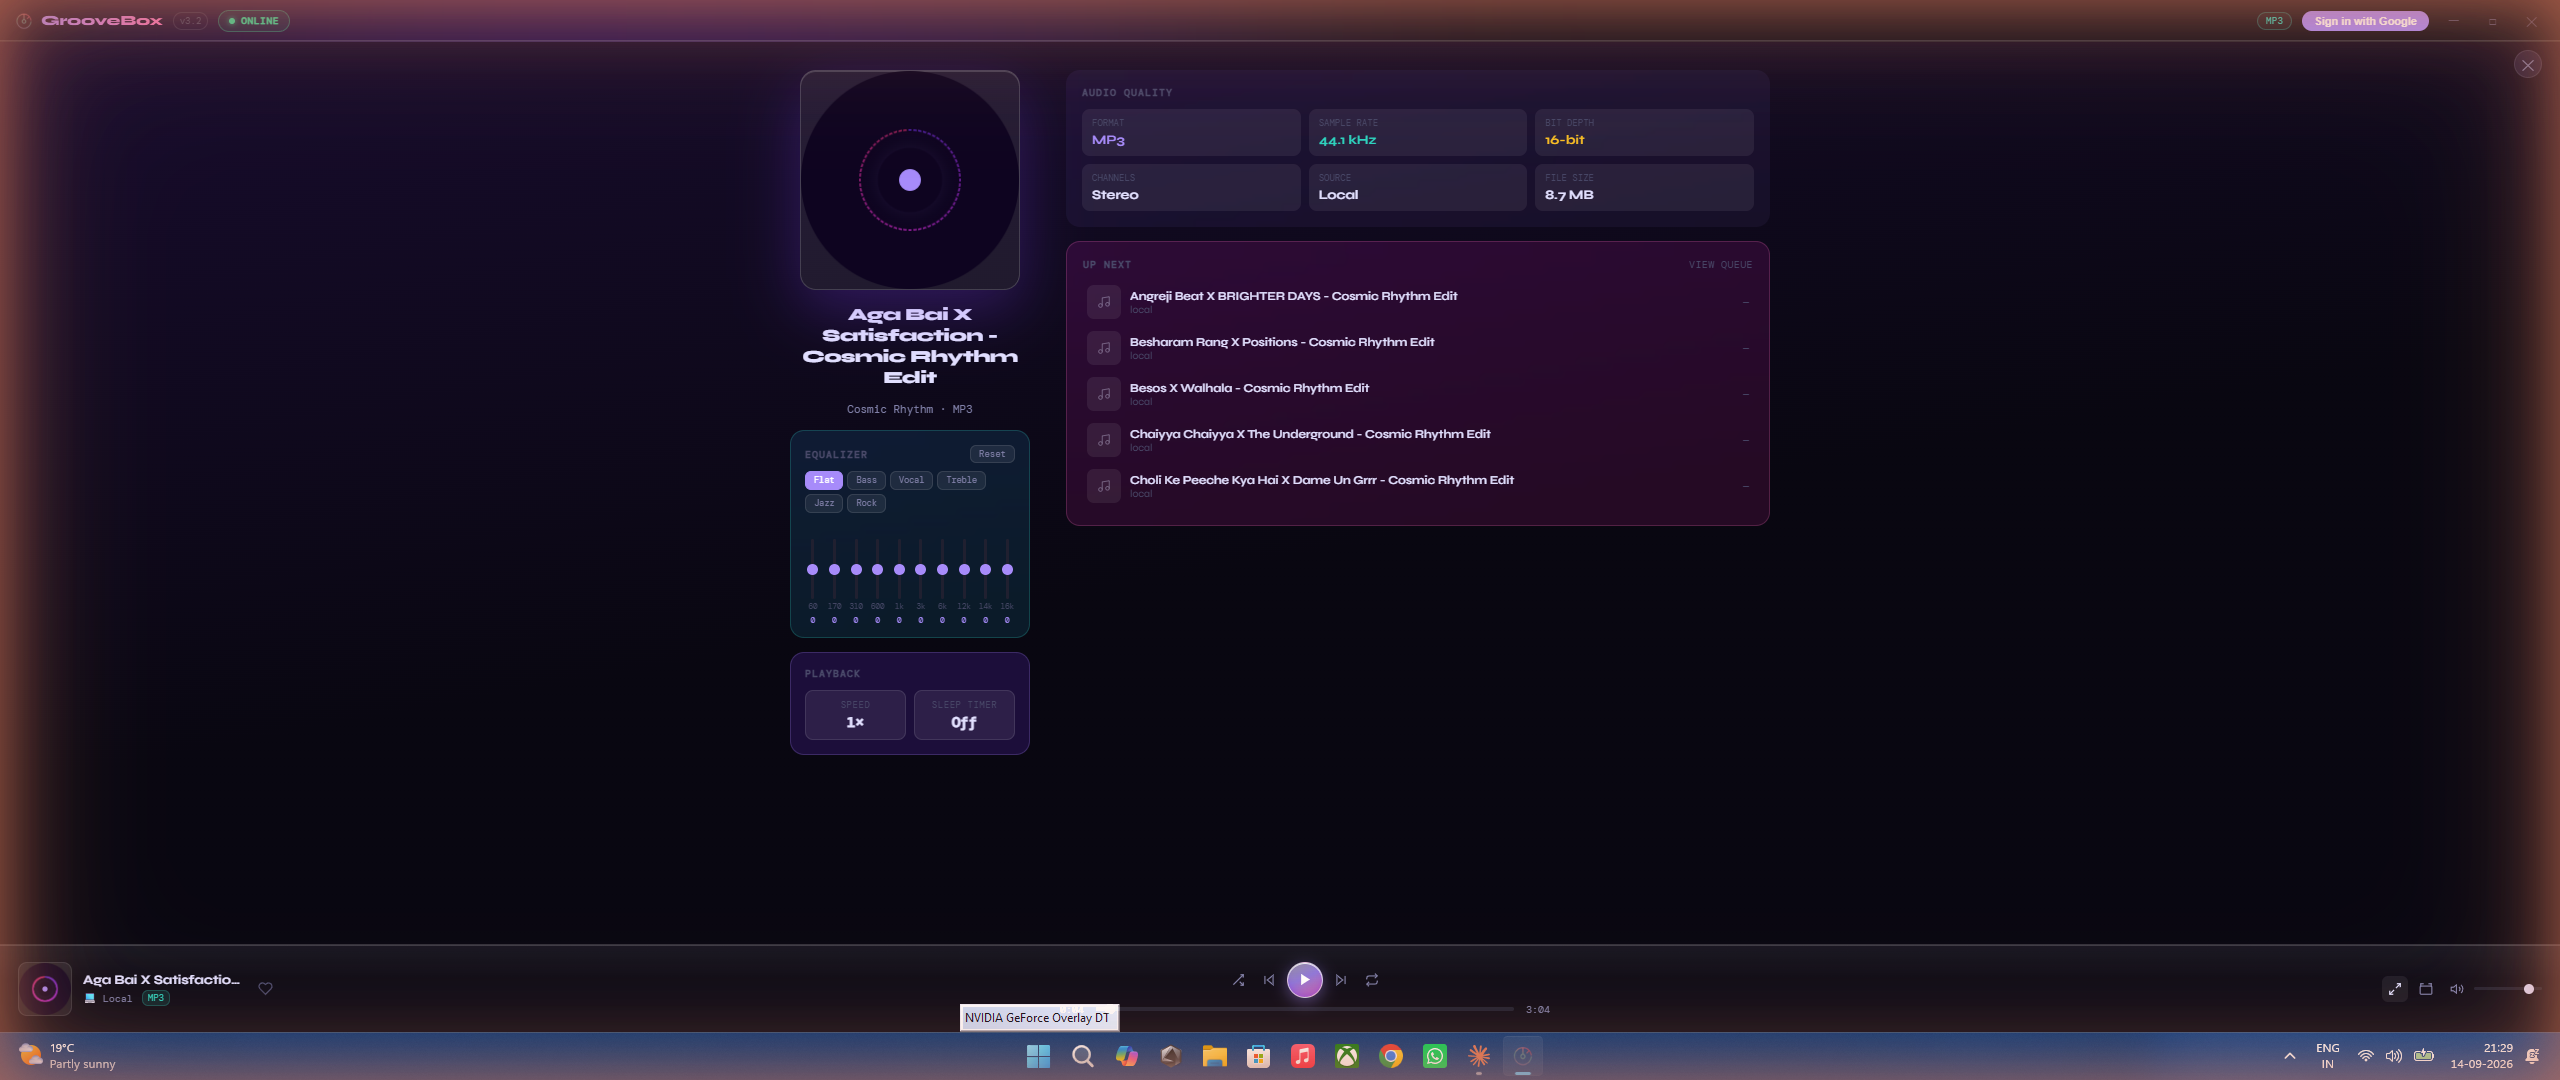
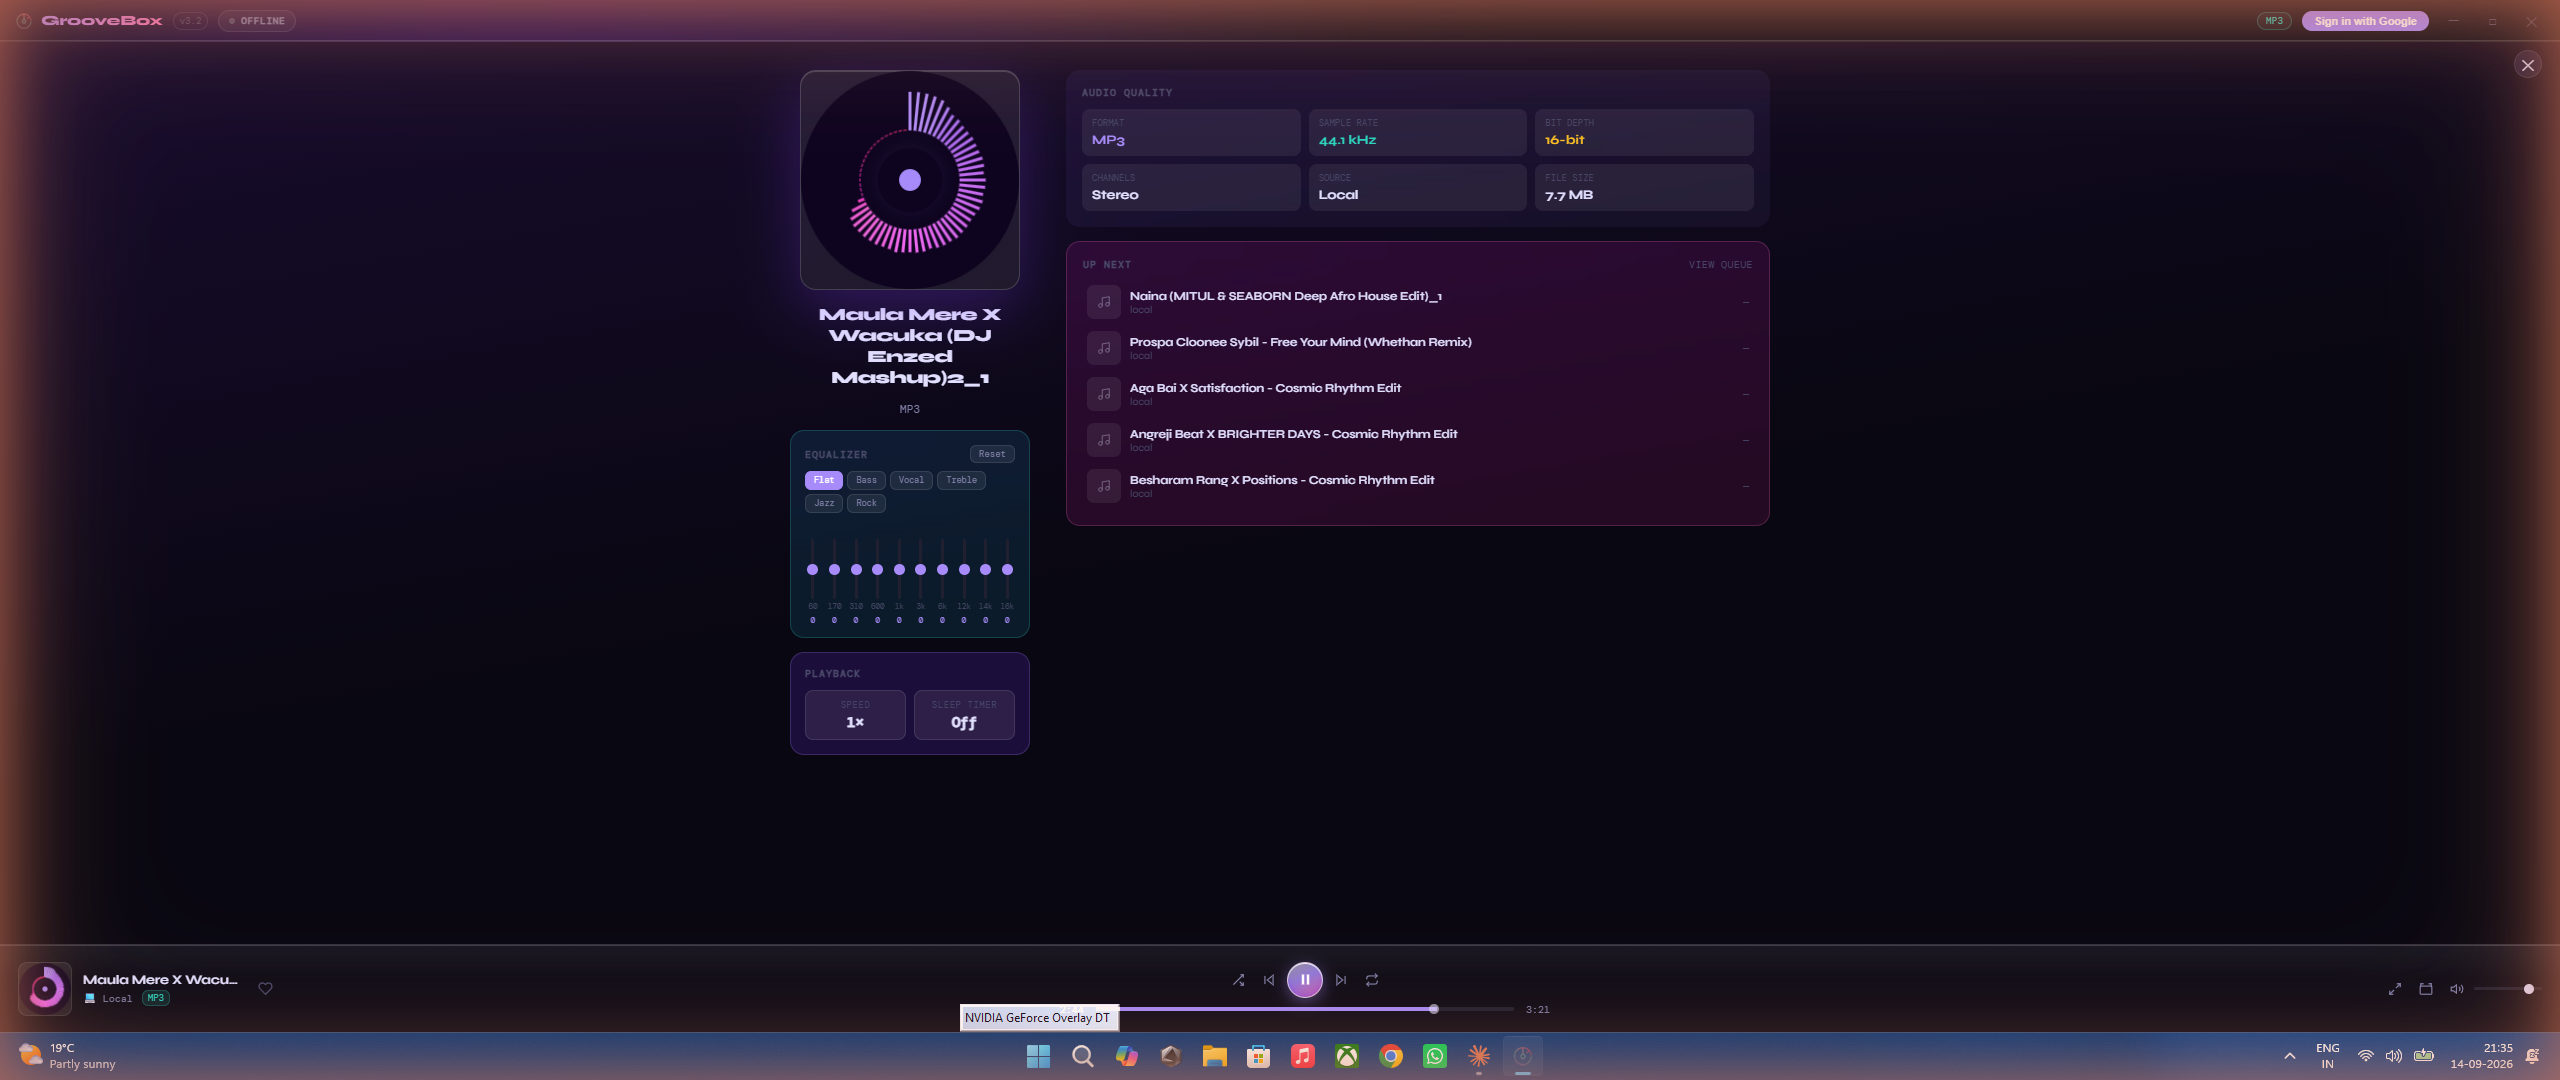
Showcase full real feature set; remove docs for features not in this codebase
Added real screenshots/GIF for queue & history panel, playlists, Top
Ranked/Liked view, and the always-on-top mini player.

While capturing these I found the docs (README, CHANGELOG, BUILD.md,
package.json) advertised Synced Lyrics, AI Search/Track Insights, and
Apple Music import — none of which exist anywhere in this codebase
(zero references in index.html/renderer.js/main.js/preload.js).
Removed those claims rather than ship marketing copy for features that
don't work, and replaced BUILD.md's stale lyrics section with the real
Discover (Spotify + YouTube) workflow.

diff --git a/README.md b/README.md
@@ -14,7 +14,7 @@
 
 ---
 
-GrooveBox is a free, open-source desktop music player that plays your local files, Google Drive music, and lets you search **Spotify and YouTube Music from the same window** — with a translucent glass UI, visualizer, synced lyrics, playlists, equalizer, likes & ranking, and more.
+GrooveBox is a free, open-source desktop music player that plays your local files, Google Drive music, and lets you search **Spotify and YouTube Music from the same window** — with a translucent glass UI, visualizer, playlists, equalizer, likes & ranking, and more.
 
 ![GrooveBox desktop walkthrough](docs/desktop-demo.gif)
 
@@ -25,21 +25,24 @@ GrooveBox is a free, open-source desktop music player that plays your local file
 | 🎧 **Spotify + YouTube Music, one search box** | Search Spotify's catalog for accurate metadata, and YouTube Music for full-length streaming — both sources side by side, no switching apps |
 | 🌫 **Glass UI** | Translucent, blurred panels throughout — mini player, full player, settings |
 | 🎛 **10-Band EQ** | Real-time equalizer with reset |
-| 🎤 **Synced Lyrics** | Auto-fetched, highlights current line |
-| ♥ **Likes & Ranking** | Like tracks, see your top chart |
-| 🪟 **Mini Player** | Always-on-top with visualizer |
+| ♥ **Likes & Ranking** | Cumulative likes, medal-ranked Top Ranked view |
+| 🪟 **Mini Player** | Always-on-top compact player with visualizer |
 | 📋 **Playlists** | Unlimited, right-click to add |
-| ☁ **Google Drive** | Paste folder link, stream instantly |
+| 📜 **Queue & History** | Playing Next queue plus play history, in a side panel |
+| ☁ **Google Drive** | Paste folder link, stream instantly — no sign-in required |
 | 💾 **Persistent Library** | Add once, always there |
 | 🌊 **Live Visualizer** | Real-time frequency display |
-| ⚡ **Keyboard Shortcuts** | Full keyboard control |
+| ⏱ **Sleep timer & playback speed** | Auto-stop on a timer, 0.5×–2× speed control |
+| ⚡ **Keyboard Shortcuts** | Space, arrows, S, R, L, F, M and more |
 
 ## Screenshots
 
 | | |
 |---|---|
 | ![First-run setup](docs/screenshot-onboarding.png) | ![Library](docs/screenshot-home.png) |
-| ![Spotify + YouTube search](docs/screenshot-search.png) | ![Full player with EQ](docs/screenshot-player.png) |
+| ![Spotify + YouTube search](docs/screenshot-search.png) | ![Full player with EQ and visualizer](docs/screenshot-player.png) |
+| ![Playing Next / History queue](docs/screenshot-queue.png) | ![Playlist](docs/screenshot-playlist.png) |
+| ![Top Ranked / Liked](docs/screenshot-topranked.png) | ![Always-on-top mini player](docs/screenshot-miniplayer.png) |
 
 ## Getting your own API keys
 

diff --git a/BUILD.md b/BUILD.md
@@ -31,10 +31,6 @@ Files are **copied** to the app's data folder on first import. Reopen the app an
 2. Get a free API key: console.cloud.google.com → Enable Drive API → Credentials → Create API Key
 3. In GrooveBox: sidebar → "Drive Folder Link" → paste folder URL + API key → Fetch Files → Import
 
-### 🍎 Apple Music Import
-Sidebar → "Import Apple Music" → select your `Music Library.xml` file
-(Found at: Music app → File → Library → Export Library)
-
 ### 📋 Playlists
 - Click **+** next to Playlists in sidebar to create
 - Right-click any track → add to playlist
@@ -45,9 +41,10 @@ Sidebar → "Import Apple Music" → select your `Music Library.xml` file
 - 🥇🥈🥉 medals on top-3 liked tracks
 - "Top Ranked" view + "Most Liked" sort
 
-### 🎤 Lyrics
-Open Full Player (F or expand button) → "Fetch Lyrics"
-Synced lyrics auto-scroll and highlight in real time.
+### 🎧 Discover (Spotify + YouTube Music)
+Sidebar → "Discover" → search — results come from both Spotify (for accurate
+metadata) and YouTube Music (for full-length playback) in one search box.
+Requires your own free API keys — set up on first launch, or later in Settings.
 
 ### 🎛 Equalizer
 Full 10-band EQ in the Full Player.
@@ -83,13 +80,9 @@ Sidebar → "Support & Feedback" → opens your mail app addressed to the develo
 → Make sure the folder is set to "Anyone with the link can view"
 → Make sure your API key has Google Drive API enabled
 
-**Apple Music import finds 0 tracks**
-→ Export your library: Music app → File → Library → Export Library → Save as .xml
-→ Make sure the files still exist at their original paths
-
 **Mini player doesn't appear**
 → Check Windows taskbar — it may be hidden. Press M again to toggle.
 
-**Lyrics not loading**
-→ LRClib.net is used for lyrics. Check internet connection.
-→ Try editing the track name to match the exact song title.
+**Discover search returns nothing**
+→ Make sure you're in Online mode (titlebar pill, or Ctrl+O) and have entered
+a valid Spotify Client ID/Secret and/or YouTube Data API key in Settings.

diff --git a/CHANGELOG.md b/CHANGELOG.md
@@ -5,7 +5,7 @@
 ### New: Online/Offline Toggle
 - App **launches in Offline mode every session** — no network calls made until you opt in
 - Clear **OFFLINE / ONLINE pill in the titlebar** — click to toggle (or press **Ctrl+O**)
-- Every online feature gated with a friendly message: YouTube search, Discover playback, Google Drive listing/streaming, AI Search, AI Track Insights, Lyrics fetch, Google Sign-In
+- Every online feature gated with a friendly message: YouTube search, Discover playback, Google Drive listing/streaming, Google Sign-In
 - Discover tab shows a clear "Enable Online to search" banner in offline mode
 - Local files play with zero network activity
 
@@ -13,14 +13,10 @@
 ## v3.1.0 — July 2026
 
 ### Fixed
-- Discover search broken on first use (default source pointed at a source with no search branch, falling through to the retired FMA API)
-- Removed Free Music Archive (API retired by provider) — replaced with iTunes Search (all mainstream music, 30s previews, zero setup)
-- AI Search / Track Insights now authenticate properly with your own Anthropic API key (previously always failed with 401 outside dev)
-- iTunes previews now play with the correct audio/mp4 MIME type
+- Discover search broken on first use (default source pointed at a source with no search branch)
 
 ### New
 - One-click "Install Automatically" button for the yt-dlp YouTube audio engine — downloads from GitHub to the app's data folder, no terminal needed
-- Anthropic API key field in Settings → AI Features
 - Per-source search hints and full/preview badges in Discover results
 
 
@@ -31,7 +27,6 @@
 - **Google Drive** — paste any public folder link to stream cloud music
 - **Playlists** — create, rename, delete; right-click to add tracks
 - **Likes & Ranking** — cumulative likes, 🥇🥈🥉 medals, Top Ranked view
-- **Synced Lyrics** — auto-fetched from LRClib, highlights current line
 - **10-Band Equalizer** — real-time EQ with reset button
 - **Mini Player** — always-on-top compact player with visualizer
 - **Queue Panel** — Playing Next + History views
